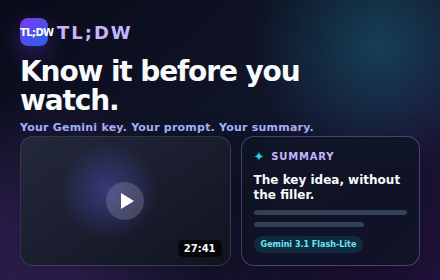
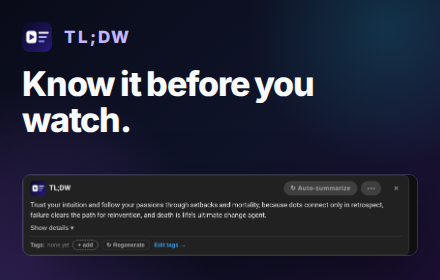
docs: the Chrome Web Store listing for 1.2.0, its images, and a privacy policy that matches the code (#43)
- PRIVACY.md says exactly when a transcript is kept (the opt-in full call log and the in-memory hand-off prompt), lists the channel picture link in history, and adds the Chrome Web Store User Data Policy and Limited Use statement.
- docs/STORE_SUBMISSION.md is the final listing: description, single purpose, permission and host justifications, data-use answers and the reviewer test instructions.
- store-assets/ has five 1280x800 screenshots of the real extension, the 440x280 tile, the 1400x560 marquee and a padded 128 store icon.
- OWNER-TODO.md item 3 covers the account setup and submission of 1.2.0.

diff --git a/docs/STORE_SUBMISSION.md b/docs/STORE_SUBMISSION.md
@@ -1,120 +1,204 @@
 # Chrome Web Store Submission Guide
 
-This guide is the source for the TL;DW Chrome Web Store listing (updated for v1.1.0, 2026-11-02).
+This is the source for the TL;DW Chrome Web Store listing (updated for v1.2.0, 2026-11-09).
+Each field is in its own block; copy the text inside the block.
+The owner's step-by-step checklist is item 3 in [OWNER-TODO.md](../OWNER-TODO.md).
 
-## Build artifact
+## Package
 
-Build without changing the version, then package the verified output.
+Build from a clean checkout of the release tag, without changing the version, then validate:
 
 ```bash
-npx vite build
-npm run package
+git checkout v1.2.0 && npm ci
+npm run package            # web-store/tldw-<version>.zip
+npm run validate:package   # manifest at the root, base hosts only, no source maps or keys
 ```
 
 The upload ZIP must contain `manifest.json` at its root with the version in `package.json`.
-`npm run validate:package` also checks that the base install asks only for YouTube, Gemini and the Gemini API.
-The ZIP must not contain source maps, secrets, development assets, or stale artifacts.
 
-## Listing
+## Store listing tab
 
-**Name:** `TL;DW`
+### Name (comes from the manifest, nothing to type)
 
-**Category:** Productivity
+```
+TL;DW
+```
 
-**Language:** English
+### Summary (comes from the manifest description, 127 of 132 characters)
 
-**Short description:**
+```
+Too Long; Didn't Watch: summarize any YouTube video right on the page with Gemini, or send it to ChatGPT, Claude or NotebookLM.
+```
 
-> Summarize any YouTube video right on the page with Gemini. Works without a key; add a free Gemini key for instant summaries.
+### Description
 
-**Detailed description:**
+```
+Get the point of a YouTube video without watching all of it.
 
-> Get the substance of a YouTube video without watching the whole thing.
->
-> Press the TL;DW button under any video and the summary appears right on the page: a one-line takeaway plus the key details.
->
-> It works with no setup: TL;DW opens Gemini in a background tab, using the Google account you're signed in with, and brings its answer back to the video.
-> For summaries in seconds with no tab, add your own free Gemini API key (about two minutes in Google AI Studio; TL;DW walks you through it).
-> With a key, long videos are summarized from the full transcript, and Gemini watches videos that have no captions.
->
-> Shape summaries with reusable prompt profiles, channel and video tags, or a specific question.
-> Summarize long videos or chosen channels automatically.
-> Prefer another assistant? Send the video to ChatGPT, Claude or NotebookLM instead.
-> Optional SponsorBlock integration skips community-reported sponsor segments.
->
-> Settings, history and cached summaries stay in Chrome on your device.
-> TL;DW has no accounts, analytics, telemetry or developer backend, and your key is sent only to Google.
+Press the blue TL;DW button under any video and a summary appears right on the page: one line with the main takeaway, and the key details a click away.
 
-## Single purpose
+It works with no setup. TL;DW opens Gemini in a background tab, with the Google account you already use there (or none), and brings Gemini's answer back to the video.
+For summaries in seconds with no extra tab, add your own free Gemini API key. It takes about two minutes in Google AI Studio, and TL;DW walks you through it.
+With a key, long videos are summarized from the whole transcript, and Gemini can watch videos that have no captions.
 
-> TL;DW summarizes the YouTube video you are watching: it sends the video's transcript (or link) and a summary prompt to the AI service you choose, or to the Gemini API with your own key, and shows the summary on the YouTube page.
-> Profiles, tags, local history, caching, usage counters and optional SponsorBlock skipping support that single purpose.
+Not sure yet? "See an example summary" on the welcome page shows a real summary TL;DW made, with no key and no setup.
 
-## Permission justifications
+What you can do:
+- Summarize with a click, the keyboard shortcut (Alt+Shift+G), or the right-click menu.
+- Pick a prompt profile: the short TL;DW, research notes, a learning brief, a tutorial brief, or the best moments to watch. Edit them or write your own.
+- Ask a specific question about the video.
+- Summarize long videos, or chosen channels, automatically.
+- Send the video to ChatGPT, Claude or NotebookLM instead of Gemini.
+- Tag videos and channels, and find past summaries in your history.
+- Optionally skip community-reported sponsor segments with SponsorBlock (off by default).
 
-| Permission | Justification |
-|---|---|
-| `storage` | Stores settings, profiles, tags, transcript-free history, the parsed summary cache, the user's Gemini key and its verification status, usage counters, the Direct API call log, lifetime stats, and short-lived prompt hand-off state. |
-| `contextMenus` | Adds a YouTube-scoped right-click menu for summarizing with a chosen prompt profile. |
-| `clipboardWrite` | Copies a generated prompt when the user asks, or when a destination's message box can't be filled. TL;DW never reads the clipboard. |
-| `scripting` | Registers TL;DW's prompt filler on ChatGPT, Claude or NotebookLM only after the user grants that optional site. |
-| `https://www.youtube.com/*` | Reads the current video's transcript and details, shows the on-page summary panel, handles in-page navigation, and runs the optional SponsorBlock skipping. |
-| `https://gemini.google.com/*` | Fills and submits the prompt in the Gemini tab (the default, no-key mode) and reads the finished answer for the on-page summary. |
-| `https://generativelanguage.googleapis.com/*` | Verifies the user's own Gemini key and sends Direct API summary requests with it. |
-| Optional `https://chatgpt.com/*`, `https://claude.ai/*` | Requested when the user picks ChatGPT or Claude: fills the prompt and reads the finished answer. |
-| Optional `https://notebooklm.google.com/*` | Requested when the user picks NotebookLM: adds the video link as a source. |
-| Optional `https://sponsor.ajay.app/*` | Requested when the user turns on SponsorBlock: looks up sponsor segments by video ID. |
+Private by design:
+- No accounts, no analytics, no tracking, and no developer server.
+- Settings, history and cached summaries stay in Chrome on your device.
+- Your Gemini key is sent only to Google.
+- TL;DW never downloads or saves a video's audio, video or images.
 
-## Data-use declarations
+TL;DW is open source (MIT): github.com/n8watkins/tl-dw
+```
 
-Declare **Website content**.
-TL;DW processes the video transcript, URL, title, channel, duration, generated prompt, and parsed AI summary.
-History stores a transcript-free prompt and video metadata.
-The local cache stores parsed summaries with prompt fingerprints and profile metadata.
-The full transcript is sent live for summarization and is never persisted.
+### Category
 
-Declare **Authentication information**.
-Direct API mode stores the user's own Gemini key in `chrome.storage.local`.
-The key leaves the device only in the `x-goog-api-key` header sent to Google's Generative Language API.
-The key is never placed in a URL and is never sent to the developer.
+```
+Productivity > Tools
+```
 
-Declare **User activity**.
-TL;DW stores local summary history, usage attempts, outcomes, cache hits, and SponsorBlock counters.
-With SponsorBlock turned on (it is off by default), the ID of each opened YouTube video is sent to the SponsorBlock API.
-TL;DW does not track watch time, engagement, ratings, or WATCH/SKIM/SKIP classifications.
+### Language
 
-Certify that data is not sold, is not used outside the extension's single purpose, and is not used for creditworthiness or lending.
-TL;DW has no developer-owned backend and collects no telemetry.
+```
+English (United States)
+```
 
-## Store assets
+### Graphic assets (all in `store-assets/`)
 
-Required assets are the 128 by 128 icon, at least one 1280 by 800 screenshot, and one 440 by 280 promotional tile.
-Up to five screenshots are recommended.
+- Store icon (128x128): `store-icon-128.png`.
+- Screenshots (1280x800), in this order:
+  1. `01-summary-on-the-page-1280x800.png`
+  2. `02-key-details-1280x800.png`
+  3. `03-works-with-no-setup-1280x800.png`
+  4. `04-example-summary-1280x800.png`
+  5. `05-prompt-profiles-1280x800.png`
+- Small promo tile (440x280): `promo-tile-440x280.png`.
+- Marquee promo tile (1400x560, optional): `marquee-1400x560.png`.
 
-1. Show the populated on-page summary from Direct API mode.
-2. Show the welcome page with the two modes and the free-key steps.
-3. Show the popup with destination, profile, specific-question, and Direct API controls.
-4. Show the summary activity and usage views.
-5. Show the Direct API model picker and key status.
+### Additional fields
 
-The promotional tile should show the TL;DW wordmark, a long-video cue, and the concise summary panel.
-Use the headline "Know it before you watch."
-Do not show API keys, account identifiers, private history, or unrelated browser UI.
+- Official URL: leave as "None" (it needs a verified site in Search Console).
+- Homepage URL: `https://n8builds.dev/builds/tldw`
+- Support URL: `https://github.com/n8watkins/tl-dw/issues`
+- Mature content: No.
 
-## Reviewer notes
+## Privacy practices tab
 
-The MAIN-world script wraps `window.fetch` only to observe YouTube transcript responses from the transcript endpoints.
-It does not read request headers, cookies, authentication data, or unrelated responses.
-The isolated content script receives only the transcript content needed for the requested summary.
+### Single purpose description
 
-The Gemini web app is the default destination and needs no key.
-ChatGPT, Claude, NotebookLM and SponsorBlock are optional host permissions requested at the moment the user picks them.
+```
+TL;DW summarizes the YouTube video you are watching. When you ask, it sends the video's transcript (or its link) with a summary prompt to the AI service you choose, either the Gemini web app in a tab or the Gemini API with your own key, and shows the summary on the YouTube page. Prompt profiles, tags, history, caching and the optional sponsor-segment skipping all serve that one purpose.
+```
 
-In open-in-a-tab mode, TL;DW fills the selected AI site and reads the completed assistant answer so it can display the parsed summary on YouTube.
-The parsed summary may be stored in the local prompt-aware cache, but the raw destination-site answer is not persisted.
-Full prompt and response logging applies only to Direct API calls when the user explicitly enables it.
+### Permission justifications
 
-## Distribution
+storage:
 
-Submit the current version with visibility set to **Unlisted**.
-Promote to Public only after an unlisted smoke cohort confirms the BYOK flow and no policy changes are required.
+```
+Saves the user's settings, prompt profiles, tags, local summary history, a cache of parsed summaries, the user's own Gemini API key, usage counters, and the short-lived prompt waiting for the AI tab. Everything stays in Chrome on the device.
+```
+
+contextMenus:
+
+```
+Adds a right-click menu on YouTube pages and video links ("Send to Gemini with...") so the user can summarize a video with a chosen prompt profile.
+```
+
+clipboardWrite:
+
+```
+Copies the generated prompt to the clipboard when the user asks for it, or when the AI site's message box can't be filled automatically, so the user can paste it. TL;DW never reads the clipboard.
+```
+
+scripting:
+
+```
+Registers TL;DW's prompt-filling script on chatgpt.com, claude.ai or notebooklm.google.com only after the user picks that site and grants its optional host permission, and removes it if the permission is revoked.
+```
+
+Host permission justification (one field covers all hosts):
+
+```
+https://www.youtube.com/* : reads the transcript and title of the video the user asks to summarize (the same transcript YouTube shows in its "Show transcript" panel), adds the TL;DW button and the summary panel under the video, and follows YouTube's in-page navigation.
+https://gemini.google.com/* : the default mode needs no API key. TL;DW opens Gemini in a tab, fills in and sends the prompt, and reads the finished answer to show it on the YouTube page.
+https://generativelanguage.googleapis.com/* : the Gemini API. Used only when the user adds their own API key: to verify the key and to request summaries.
+Optional, requested only when the user picks the feature: https://chatgpt.com/* and https://claude.ai/* (fill the prompt and read the answer), https://notebooklm.google.com/* (add the video link as a source), https://sponsor.ajay.app/* (look up sponsor segments by video ID when SponsorBlock skipping is turned on).
+```
+
+### Remote code
+
+```
+No, I am not using remote code.
+```
+
+All JavaScript ships in the package; the only network requests are data requests to YouTube, Gemini, the Gemini API and, when the user opts in, ChatGPT, Claude, NotebookLM and SponsorBlock.
+
+### Data usage: what to tick
+
+Tick these four, and leave the rest unticked:
+
+- **Website content**: the video's transcript, title, channel and link are sent with the prompt to the AI service the user picks, and the AI's answer is read back from that site.
+- **Authentication information**: the user's own Gemini API key, stored on the device and sent only to Google's Gemini API.
+- **User activity**: local counters of summaries made, cache hits and sponsor segments skipped.
+- **Web history**: the local summary history (video link, title, channel, time); and with SponsorBlock turned on, the ID of each opened YouTube video is sent to the SponsorBlock API.
+
+Leave unticked: Personally identifiable information, Health information, Financial and payment information, Personal communications, Location.
+
+Tick all three certifications:
+
+- I do not sell or transfer user data to third parties, outside of the approved use cases.
+- I do not use or transfer user data for purposes that are unrelated to my item's single purpose.
+- I do not use or transfer user data to determine creditworthiness or for lending purposes.
+
+### Privacy policy URL
+
+```
+https://n8builds.dev/privacy/tldw
+```
+
+Until n8watkins/n8builds-web PR #165 is merged and deployed, use the same policy on GitHub instead:
+
+```
+https://github.com/n8watkins/tl-dw/blob/master/PRIVACY.md
+```
+
+## Distribution tab
+
+- Payments: Free of charge.
+- Visibility: Unlisted for the first submission, then Public.
+- Regions: All regions.
+
+## Test instructions (reviewer note)
+
+Paste this into "Test instructions" (Additional test instructions on the Privacy or Distribution tab, depending on the dashboard version).
+
+```
+What TL;DW does: it summarizes the YouTube video the user is watching and shows the summary under the video. Nothing else.
+
+Nothing from YouTube is downloaded or stored. TL;DW does not download, save or re-host any video, audio, image or caption file, and it does not block ads. When the user asks for a summary, it reads the video's transcript text, the same text YouTube shows in its own "Show transcript" panel, and sends it with a prompt to the AI service the user chose. Only the generated summary is kept, on the user's device. Local history keeps the video's link, title and channel, never the transcript.
+
+How to test, no account or key needed:
+1. Install TL;DW. A welcome page opens.
+2. Click "See an example summary" to see a real summary TL;DW made, shipped with the extension. This page needs no key and sends nothing.
+3. Open https://www.youtube.com/watch?v=UF8uR6Z6KLc and press the blue TL;DW button under the video (next to Subscribe), or press Alt+Shift+G.
+4. TL;DW opens Gemini (gemini.google.com) in a background tab, sends the prompt there and, after about 10 to 60 seconds, shows the summary under the video. Being signed in to Google is optional. "Show details" expands it.
+
+With a Gemini API key (optional, free at https://aistudio.google.com/apikey): open TL;DW's settings, go to Direct API, paste the key and save. TL;DW verifies it and turns Direct API on; summaries then appear in a few seconds with no extra tab.
+
+About the youtube.com scripts: a small script in the page's main world wraps window.fetch only to read the responses of YouTube's own transcript requests (get_panel, get_transcript, timedtext) for the video on screen. It does not read cookies, headers or any other response. If YouTube's own transcript request fails, it asks YouTube for that same transcript panel itself, without the user's cookies.
+
+ChatGPT, Claude, NotebookLM and SponsorBlock are optional host permissions, requested only when the user picks them. SponsorBlock skipping is off by default.
+
+Privacy policy: https://n8builds.dev/privacy/tldw
+Source code: https://github.com/n8watkins/tl-dw
+```

diff --git a/PRIVACY.md b/PRIVACY.md
@@ -1,6 +1,6 @@
 # TL;DW - Privacy Policy
 
-_Last updated: November 2, 2026 (extension v1.1.1)_
+_Last updated: November 9, 2026 (extension v1.2.0)_
 
 TL;DW summarizes YouTube videos.
 It has no developer backend, no accounts, no shared API key, and no analytics, tracking or telemetry.
@@ -48,15 +48,17 @@ TL;DW stores the following in `chrome.storage.local`, on your device only:
 - Settings, prompt profiles and tags.
 - Your Gemini API key, if you add one, with its name and whether it was verified.
   The key stays in this storage; anyone with access to your Chrome profile could read it, so you can delete it in TL;DW at any time and revoke it in Google AI Studio.
-- Summary history: the video's link, title and channel, the prompt profile, a prompt without the transcript, and the time.
+- Summary history: the video's link, title and channel, the link to the channel's picture, the prompt profile, a prompt without the transcript, and the time.
   History is deleted after 30 days by default (configurable).
 - A cache of parsed summaries, kept for seven days and capped at 300 entries.
 - Summary, cache-hit and SponsorBlock counters, and per-day summary activity.
 - Direct API usage counters and a call log of video link, title, time, profile, outcome and error category.
-  The full prompt and response are kept only if you turn on full call logging.
+  The full prompt (which includes the transcript TL;DW sent) and Gemini's response are kept only if you turn on full call logging, which is off by default; the log keeps the last 200 calls, and you can clear it in TL;DW's Direct API settings.
 
-Short-lived hand-off state (the prompt waiting for a destination tab, open destination tabs) is kept in `chrome.storage.session` and cleared when Chrome closes.
-TL;DW never stores a video's full transcript.
+Short-lived hand-off state is kept in `chrome.storage.session`, which Chrome holds in memory and clears when it closes: the open destination tabs, and the prompt waiting for a destination tab.
+That prompt can include the transcript; TL;DW deletes it once the destination has it, and ignores one older than 10 minutes.
+Apart from those two cases, TL;DW does not store a video's transcript.
+TL;DW never downloads or stores a video's audio, video or images.
 Uninstalling TL;DW removes all of its storage from your Chrome profile.
 
 ## What TL;DW does not do
@@ -64,6 +66,12 @@ Uninstalling TL;DW removes all of its storage from your Chrome profile.
 - It does not collect watch time, engagement or ratings.
 - It does not sell data, or use it for advertising, profiling, creditworthiness or lending.
 - It runs no server that receives your data.
+- The example summary ("See an example summary" on the welcome page and in the popup) ships inside TL;DW and sends nothing.
+
+## Chrome Web Store User Data Policy
+
+TL;DW's use of the information it handles complies with the [Chrome Web Store User Data Policy](https://developer.chrome.com/docs/webstore/program-policies/), including its Limited Use requirements.
+It uses that information only to summarize the video you ask about and to show you your own history and settings, transfers it only to the AI service you choose (and SponsorBlock, if you turn it on) to do that, and never sends it to the developer.
 
 ## Permissions
 

diff --git a/OWNER-TODO.md b/OWNER-TODO.md
@@ -5,7 +5,7 @@ Agents keep this list current; tick an item by changing `[ ]` to `[x]` and addin
 No secrets go in this file: keys live in pass-env, and this file names only the entries.
 The cross-project list of keys to rotate is `SECURITY-TODO.md` in the private [secret-handling-review](https://github.com/n8watkins/secret-handling-review/blob/main/SECURITY-TODO.md) repo.
 
-Last checked: 2026-11-02 (version 1.1.0).
+Last checked: 2026-11-09 (version 1.2.0).
 
 ## 1. Test the real Gemini API
 
@@ -37,7 +37,7 @@ Version 1.1.0 defaults to `gemini-3.5-flash-lite`, falls back to `gemini-3.1-fla
 All three were verified only against mocked responses, because no key was available on 2026-11-02.
 
 **Unblocks.**
-Confidence to submit 1.1.0 to the Chrome Web Store (item 3).
+Confidence in the Direct API path; the store submission (item 3) does not depend on it, because the no-key path and the example summary need no key.
 
 ## 2. Check the no-key flows in your signed-in Chrome
 
@@ -62,19 +62,23 @@ The decision whether the transcript reader needs more work before the store laun
 
 ## 3. Publish to the Chrome Web Store (Unlisted)
 
-- [ ] TL;DW 1.1.0 is submitted with Unlisted visibility.
+- [ ] TL;DW 1.2.0 is submitted with Unlisted visibility.
 
 **What.**
 Register as a Chrome Web Store developer and submit the extension.
 
 **Steps.**
 
-1. Register once at https://chrome.google.com/webstore/devconsole: pay the one-time $5 developer fee, turn on 2-Step Verification and verify the contact email.
-2. Add a new item and upload `web-store/tldw-1.1.0.zip` (built locally, not in git; if it is missing, ask Claude to rebuild it with `npx vite build`, `npm run package` and `npm run validate:package`).
-3. Fill in the listing, permission justifications, data-use declarations and reviewer notes from [docs/STORE_SUBMISSION.md](docs/STORE_SUBMISSION.md), with the images in `store-assets/`.
-4. Privacy policy URL: https://github.com/n8watkins/tl-dw/blob/master/PRIVACY.md
-5. Set visibility to **Unlisted** and submit.
-6. Send Claude the store link once it is approved.
+1. Pick the Google account that will own the listing; its email can never be changed later.
+2. Turn on 2-Step Verification on that account.
+3. Open https://chrome.google.com/webstore/devconsole, accept the developer agreement and pay the one-time $5 fee.
+4. In account settings, set the publisher name, then add and verify the contact email.
+5. Declare non-trader (a free personal project) or trader (published as a business; the store then shows your business contact details to EU users).
+6. Add a new item and upload `web-store/tldw-1.2.0.zip` (ask Claude to rebuild it from the `v1.2.0` tag if it is missing).
+7. Paste every field from [docs/STORE_SUBMISSION.md](docs/STORE_SUBMISSION.md) and upload the images in `store-assets/`.
+8. Privacy policy URL: https://n8builds.dev/privacy/tldw once it is live, else https://github.com/n8watkins/tl-dw/blob/master/PRIVACY.md
+9. Set visibility to **Unlisted** and submit.
+10. Send Claude the store link once it is approved, or the rejection email if it is rejected.
 
 **Why.**
 The publisher account, the fee and the submission need your Google account.
